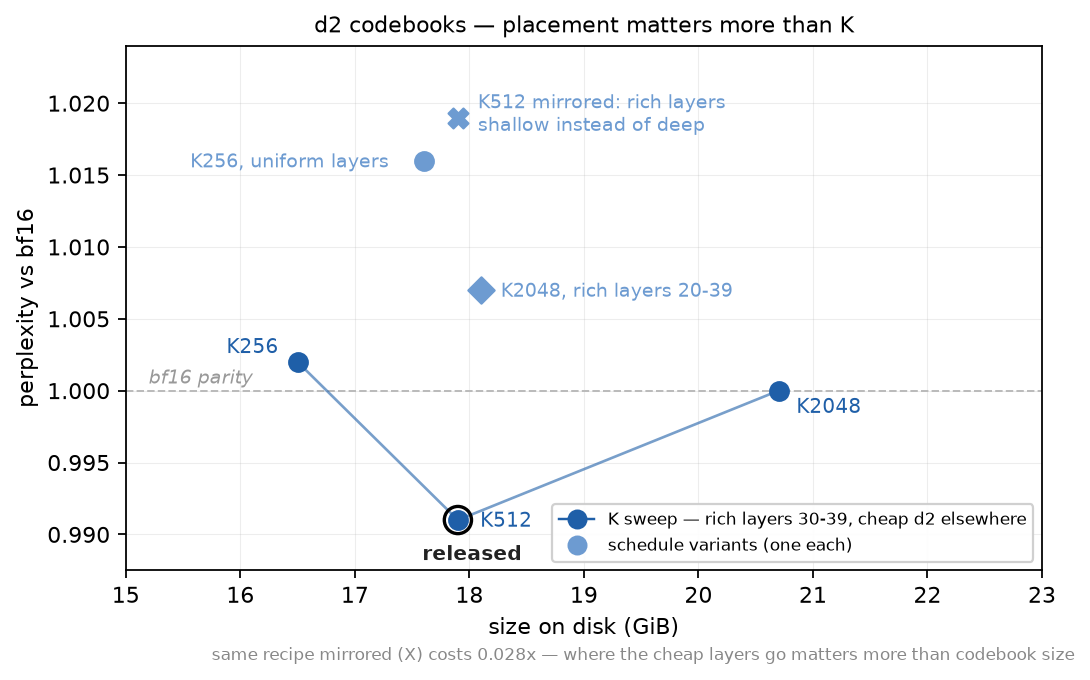
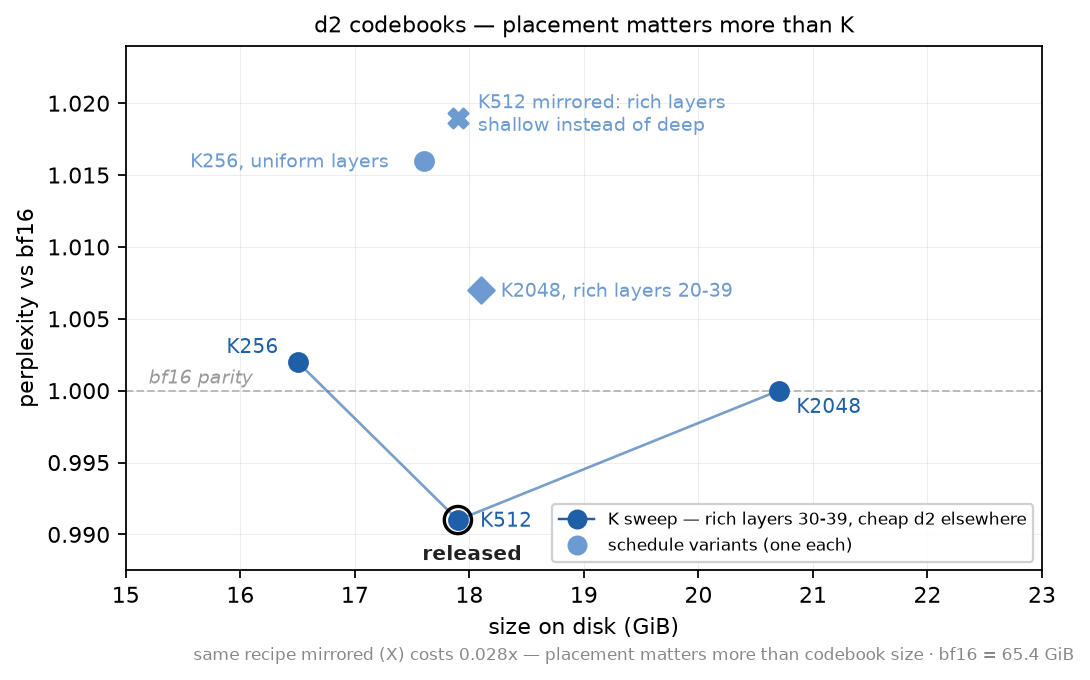
qwen cards: VQ-bpw titles (4.4/3.2, disk bytes over 35.11B params), bf16 size corrected 70->65.4 GiB everywhere, load-time rows dropped

Changed region(s): [[0.1872, 0.9574, 0.9982, 0.9882]]

diff --git a/research/quantlab/MODEL_CARD_QWEN_QUALITY.md b/research/quantlab/MODEL_CARD_QWEN_QUALITY.md
@@ -14,7 +14,7 @@ tags:
 - qwen3.6
 ---
 
-# Qwen3.6-35B-A3B-VQ-tail30-d2K512
+# Qwen3.6-35B-A3B-VQ-4.4bpw
 
 **8-bit-quality perplexity, smaller than the community 4-bit.** 17.9 GiB at ppl 0.991x vs bf16 — the 8-bit holds 0.999x at 35 GiB, the 4-bit degrades to 1.041x at 19 GiB (all measured on the same harness and corpus). Runs on a 32 GB Mac.
 
@@ -32,7 +32,7 @@ same files with an unmodified `mlx-lm`:
 
 | build | size | perplexity | vs bf16 | top-1 agreement |
 |---|---|---|---|---|
-| bf16 | 70 GiB | 4.7215 | 1.000x | 100% |
+| bf16 | 65.4 GiB | 4.7215 | 1.000x | 100% |
 | mlx-community 8-bit | 35 GiB | — | 0.999x | 96.18% |
 | **this model** | **17.9 GiB** | **4.6812** | **0.991x** | 90.75% |
 | mlx-community 4-bit | 19 GiB | — | 1.041x | 85.61% |
@@ -66,7 +66,7 @@ on the same harness and corpus; nothing was discarded.
 
 | build | geometry | layer schedule | size (GiB) | ppl | vs bf16 | KL (mnats) | top-1 agree |
 |---|---|---|---|---|---|---|---|
-| bf16 (teacher) | — | — | 70 | 4.7215 | 1.000x | 0 | 100% |
+| bf16 (teacher) | — | — | 65.4 | 4.7215 | 1.000x | 0 | 100% |
 | mlx-community 8-bit | affine 8-bit | uniform | 35 | — | 0.999x | — | 96.18% |
 | mlx-community 4-bit | affine 4-bit | uniform | 19 | — | 1.041x | — | 85.61% |
 | **VQ — this model** | d2·K512 + d4·K2048 | rich layers 30-39 | 17.9 | 4.6812 | **0.991x** | 44.573 | 90.75% |

diff --git a/research/quantlab/MODEL_CARD_QWEN_SMALL.md b/research/quantlab/MODEL_CARD_QWEN_SMALL.md
@@ -14,7 +14,7 @@ tags:
 - qwen3.6
 ---
 
-# Qwen3.6-35B-A3B-VQ-d4K2048
+# Qwen3.6-35B-A3B-VQ-3.2bpw
 
 **13.0 GiB — beats the 19 GiB 4-bit on perplexity at 68% of its size.**
 
@@ -29,7 +29,7 @@ where the 17.9 GiB parity build is too large. Stock `mlx-lm`.
 
 | build | size | vs bf16 ppl | top-1 agreement |
 |---|---|---|---|
-| bf16 | 70 GiB | 1.000x | 100% |
+| bf16 | 65.4 GiB | 1.000x | 100% |
 | mlx-community 8-bit | 35 GiB | 0.999x | 96.18% |
 | sibling parity build | 17.9 GiB | 0.991x | 90.75% |
 | **this model** | **13.0 GiB** | **1.029x** | **87.33%** |

diff --git a/research/quantlab/MODEL_CARD_GEMMA_QUALITY.md b/research/quantlab/MODEL_CARD_GEMMA_QUALITY.md
@@ -73,7 +73,6 @@ Single M3 Ultra, macOS, stock `mlx-lm`, GPU otherwise idle:
 
 | | |
 |---|---|
-| load time | ~2 s (warm) |
 | peak memory | 17.7 GiB |
 | decode | **~40 tok/s** |
 

diff --git a/research/quantlab/MODEL_CARD_GEMMA_SMALL.md b/research/quantlab/MODEL_CARD_GEMMA_SMALL.md
@@ -94,7 +94,6 @@ Single M3 Ultra, macOS, stock `mlx-lm`, GPU otherwise idle:
 
 | | |
 |---|---|
-| load time | ~5 s |
 | peak memory | 8.4 GiB |
 | decode | **~70 tok/s** |
 
